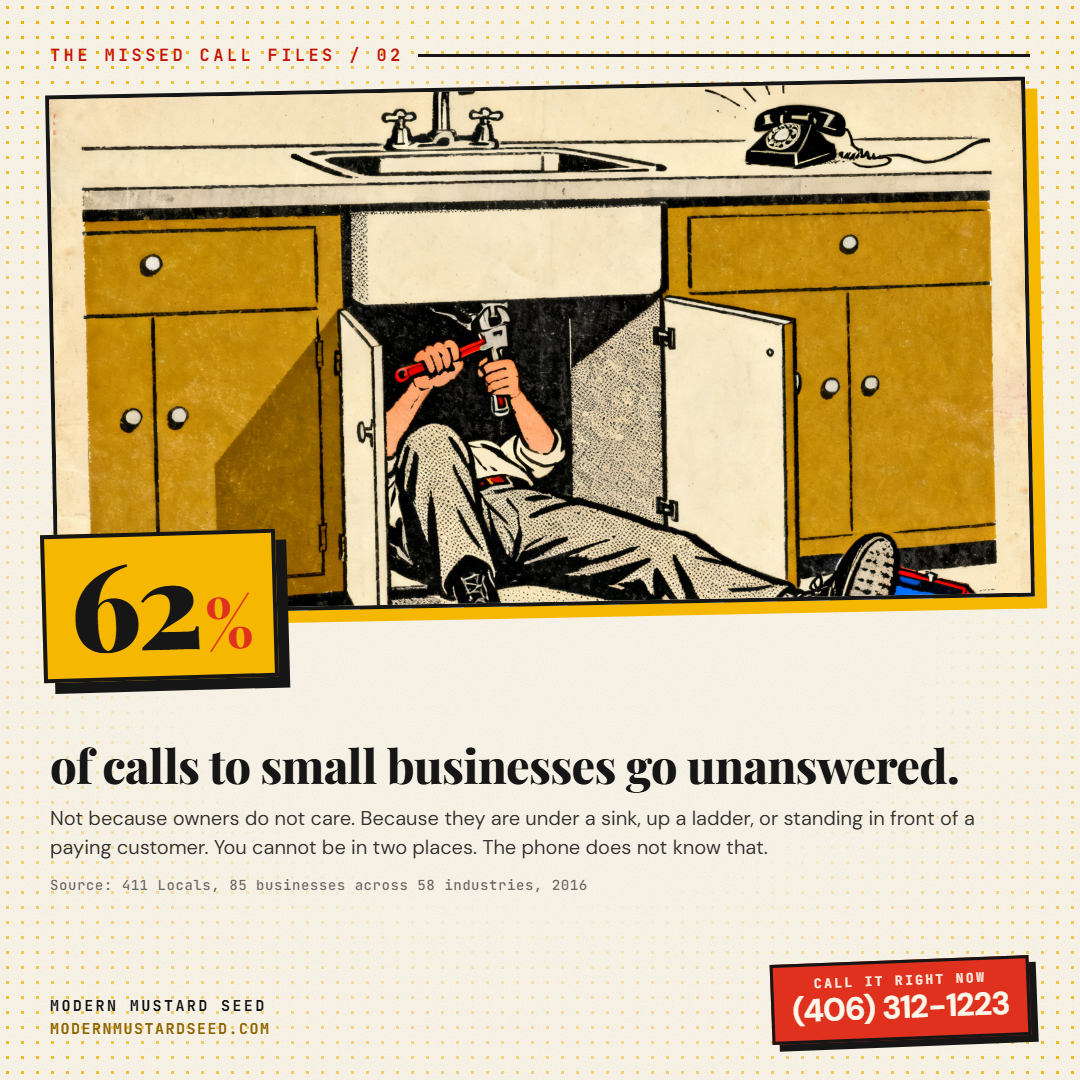
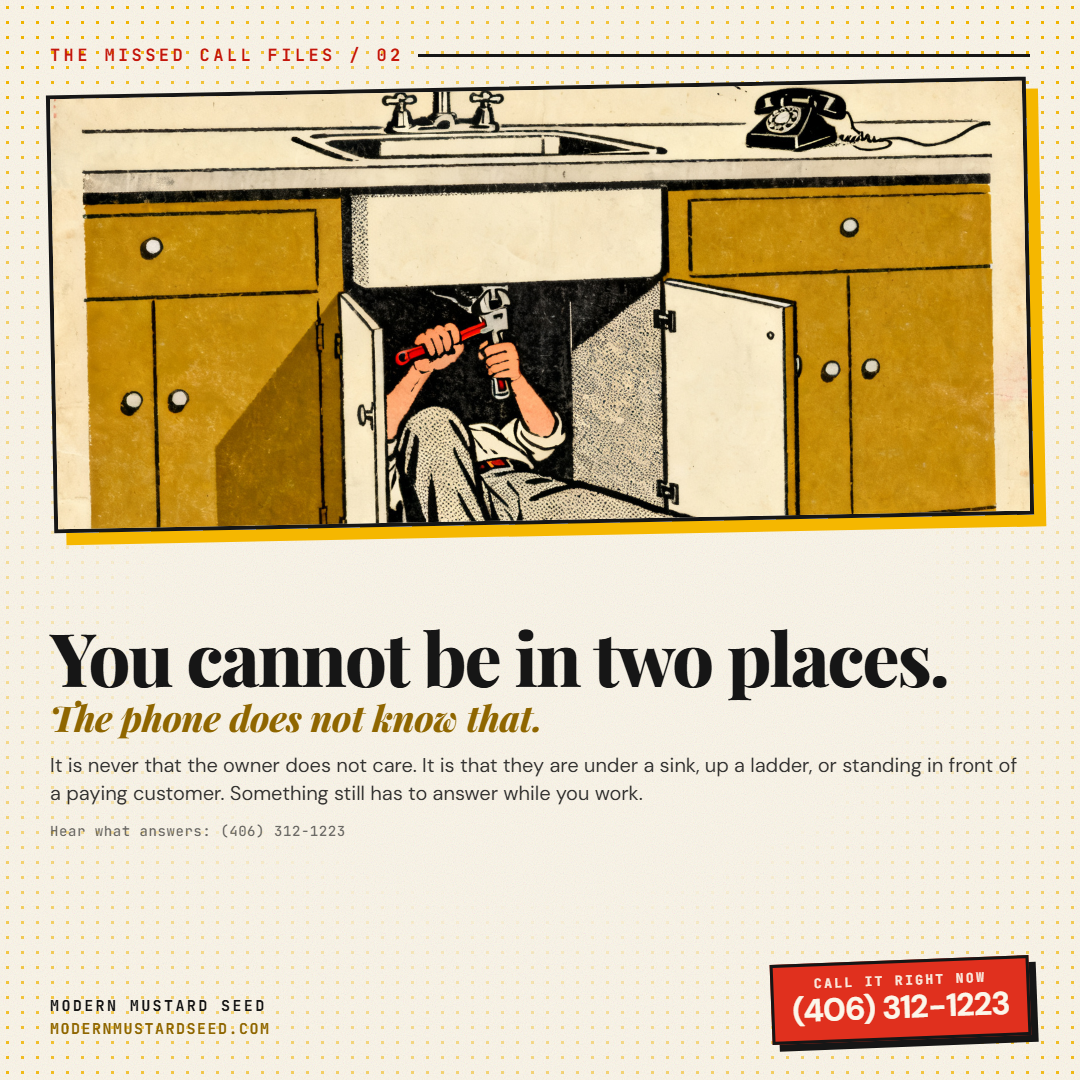
Show the cards instead of describing them, and make the two that were unpostable
Sarah, looking at the new Organic Social tab: "there are no graphics, there is
only a prompt." She was right about the tab and wrong about the library. Six
finished cards existed the whole time in public/social/missed-calls, and my tab
named their filenames in a sentence, which is how a library of finished artwork
ends up reading like a to-do list. Both cuts now render on screen with the
download that actually saves the file.

The two cards I had marked DO NOT POST are fixed rather than left broken. The
type on these is composited by social-drafts/missed-calls/render.mjs in real
brand fonts, so nothing was left to an image model's spelling, and re-rendering
an untouched card reproduced it byte for byte (1,422,844) before I changed
anything.

- 03-after-hours stops being a 52% stat card and becomes a call card carrying
  the argument: "People do not hate robots. People hate beeps." Same art plate.
- 02-unanswered drops the 62% figure that data/proof-stats.ts refuses and keeps
  the harder line: "You cannot be in two places. The phone does not know that."

07-you-own-it is new, and it is the one thing here that needed an actual image.
The stewardship angle had no card behind it, so the art plate came from Codex
image_gen with the same style block the original six used, and render.mjs
composited the type. fal-run.mjs could not do it: it reads a key from a
C:/Users/moder path that does not exist on this machine.
[…]

diff --git a/components/admin/SocialPosts.tsx b/components/admin/SocialPosts.tsx
@@ -35,7 +35,10 @@ type Post = {
   angle: string;
   /** What this post is for, in one line, so a tired Sarah picks the right one. */
   use: string;
-  creative: string;
+  /** The card to post with it: <set>/<file>, resolved to a real PNG below. */
+  card: string;
+  /** The moving cut, when there is one worth using instead. */
+  video: string;
   fb: string;
   ig: string;
   x: string;
@@ -46,7 +49,8 @@ const POSTS: Post[] = [
     id: 'dare',
     angle: 'The dare',
     use: 'The default post. Works cold, works warm, works on every network, and the demo does the selling.',
-    creative: 'GRAPHIC: /social/missed-calls/05-break-it.png (feed) and 05-break-it-square.png (X). VIDEO if you would rather: call-me-4x5.mp4 on FB and IG, call-me-9x16.mp4 for Reels and Stories, call-me-16x9.mp4 on X.',
+    card: 'missed-calls/05-break-it',
+    video: 'call-me-4x5.mp4 on FB and IG, call-me-9x16.mp4 for Reels and Stories, call-me-16x9.mp4 on X.',
     fb: `I built an AI receptionist and I am not going to describe him to you.
 
 His number is ${PHONE}. Call it right now. He picks up on the first ring, he says he is an AI in his first sentence, and then he answers whatever you throw at him.
@@ -75,7 +79,8 @@ Try to break him. That is the demo.`,
     id: 'beep',
     angle: 'The beep',
     use: 'The objection killer. Use it the moment somebody says people hate talking to robots.',
-    creative: 'NO GRAPHIC YET. 03-after-hours.png is retired: its artwork still reads the 52% figure that was pulled. Post this one text-only, or re-render that card with the beeps headline from social-drafts/missed-calls.',
+    card: 'missed-calls/03-after-hours',
+    video: 'after-hours-4x5.mp4, if you would rather move.',
     fb: `Every time I bring up AI answering the phone, somebody tells me people hate talking to robots.
 
 I get it. I hated the idea too.
@@ -106,7 +111,8 @@ People do not hate robots. People hate beeps.`,
     id: 'ninepm',
     angle: 'The nine at night caller',
     use: 'The arithmetic post. Best for trades and anyone who works a route or a job site.',
-    creative: 'GRAPHIC: /social/missed-calls/01-competitor.png (feed) and -square (X). VIDEO: after-hours-4x5.mp4. Avoid 02-unanswered, it is retired for carrying an unsourced 62% figure.',
+    card: 'missed-calls/01-competitor',
+    video: 'after-hours-4x5.mp4. 02-unanswered also fits this angle.',
     fb: `The call you lost last night did not go to voicemail and stay there.
 
 It rang four times, hit your recording, and that person hung up and called the next name on the list. They did not leave a message. They are not going to call back in the morning. You will never know it happened.
@@ -137,7 +143,8 @@ That is what makes it expensive. It is invisible.`,
     id: 'talking-website',
     angle: 'A website that answers its own phone',
     use: 'The flagship offer. Use when the audience is further along than "what is a voice agent".',
-    creative: 'GRAPHIC: /social/talking-website/01-talks-back.png (feed) and -square (X). VIDEO: the Talking Website cut, or a screen recording of the site with the gold call button.',
+    card: 'talking-website/01-talks-back',
+    video: 'The Talking Website cut, or a screen recording of the site with the gold call button.',
     fb: `Your website and your phone do not know each other.
 
 The site says you are open until six. The voicemail says something you recorded in 2019. A customer reads one, hears the other, and decides you are disorganised before anybody has spoken to them.
@@ -166,7 +173,8 @@ Build them as one thing.`,
     id: 'roof',
     angle: 'While you are on a roof',
     use: 'Trades specific. Roofing, HVAC, plumbing, landscaping. The one that gets shared in contractor groups.',
-    creative: 'GRAPHIC: /social/talking-website-plumbers/ for the trade cut, or /social/missed-calls/06-what-it-does.png. VIDEO: call-me-9x16.mp4 as a Reel.',
+    card: 'missed-calls/06-what-it-does',
+    video: 'call-me-9x16.mp4 as a Reel. The talking-website-plumbers set is the trade specific cut.',
     fb: `You cannot answer the phone from up a ladder. That is not a discipline problem, it is physics.
 
 So the phone rings while your hands are full, and by the time you are back in the truck the person who called has already booked somebody else.
@@ -191,7 +199,8 @@ Mine answers it, books the job, writes down the address, and texts me the ones t
     id: 'own-it',
     angle: 'You own it',
     use: 'The stewardship post. Slower, warmer, for the audience that has been burned by an agency.',
-    creative: 'GRAPHIC: /social/missed-calls/04-call-it.png (feed) and -square (X), or a photo of the Flathead. Download any of these from /admin/social-cards.',
+    card: 'missed-calls/07-you-own-it',
+    video: 'None. This one is better as a still.',
     fb: `Most people who build you something want you to need them forever.
 
 That is the business model. You do not get the logins, you do not get the code, and every small change costs you a phone call and two weeks of waiting.
@@ -304,9 +313,44 @@ export default function SocialPosts() {
 
       {POSTS.filter((p) => p.id === open).map((p) => (
         <section key={p.id} className="space-y-5">
+          {/*
+            SHOW THE GRAPHIC, DO NOT DESCRIBE IT.
+
+            This block used to be a sentence naming a filename, which is how a
+            library of finished artwork ends up looking like a to-do list.
+            Sarah's words on seeing it: "there are no graphics, there is only a
+            prompt." The cards existed the whole time. Now they are on screen,
+            both cuts, with the download that actually saves the file.
+          */}
           <div className="bg-[#FBF6EA] border-2 border-[#161616] shadow-[4px_4px_0_0_#161616] p-5">
-            <span className="text-[10px] uppercase tracking-[0.3em] text-[#E0301E] font-mono font-bold">Creative</span>
-            <p className="text-sm text-[#161616]/85 font-sans mt-2">{p.creative}</p>
+            <span className="text-[10px] uppercase tracking-[0.3em] text-[#E0301E] font-mono font-bold">
+              Post it with this
+            </span>
+            <div className="mt-4 grid gap-4 sm:grid-cols-[1.1fr_1fr]">
+              {(['', '-square'] as const).map((suffix) => (
+                <figure key={suffix} className="flex flex-col gap-2">
+                  <a
+                    href={`/social/${p.card}${suffix}.png`}
+                    target="_blank"
+                    rel="noopener noreferrer"
+                    className="block border-2 border-[#161616] bg-white shadow-[4px_4px_0_0_#F5B700] transition-all hover:-translate-y-0.5 hover:shadow-[2px_2px_0_0_#F5B700]"
+                  >
+                    {/* eslint-disable-next-line @next/next/no-img-element */}
+                    <img src={`/social/${p.card}${suffix}.png`} alt="" className="block h-auto w-full" loading="lazy" />
+                  </a>
+                  <a
+                    href={`/social/${p.card}${suffix}.png`}
+                    download
+                    className="text-center text-[11px] uppercase tracking-[0.14em] font-sans font-bold px-3 py-2 border-2 border-[#161616] bg-white shadow-[2px_2px_0_0_#161616] hover:-translate-y-0.5 transition-transform"
+                  >
+                    {suffix ? 'Download square (X)' : 'Download feed (FB + IG)'}
+                  </a>
+                </figure>
+              ))}
+            </div>
+            <p className="text-[13px] text-[#161616]/70 font-sans mt-4 leading-relaxed">
+              <b>Video instead:</b> {p.video}
+            </p>
           </div>
           <Copyable label="Facebook" text={p.fb} />
           <Copyable label="Instagram (no links, phone is the CTA)" text={p.ig} />

diff --git a/data/social-cards.ts b/data/social-cards.ts
@@ -78,19 +78,15 @@ export const SOCIAL_SETS: SocialSet[] = [
       },
       {
         file: '02-unanswered',
-        headline: '62% of calls to small businesses go unanswered.',
+        headline: 'You cannot be in two places. The phone does not know that.',
         use: 'The empathy beat. Middle of the Post 2 carousel.',
-        alt: 'A tradesperson working under a kitchen sink. Headline: 62 percent of calls to small businesses go unanswered.',
-        retired:
-          'The 62% figure is on the REFUSED list in data/proof-stats.ts: it circulates widely and has no traceable primary source. Our whole pitch is "here is the arithmetic with the assumptions showing", and one invented number discredits the sourced ones beside it. Re-render from social-drafts/missed-calls with a figure from the proof bank.',
+        alt: 'A tradesperson working under a kitchen sink. Headline: you cannot be in two places, the phone does not know that.',
       },
       {
         file: '03-after-hours',
         headline: 'People do not hate robots. People hate beeps.',
         use: 'The objection killer. Post 3.',
         alt: 'A lit shop counter at night. Headline: people do not hate robots, people hate beeps.',
-        retired:
-          'The ARTWORK still reads "52% say an AI after hours is better service", which Sarah pulled everywhere on 2026-08-18. The written copy above was rewritten to the beeps line, so the caption and the image now disagree, which is worse than either. Re-render from social-drafts/missed-calls with the beeps headline and clear this field.',
       },
       {
         file: '04-call-it',
@@ -109,6 +105,12 @@ export const SOCIAL_SETS: SocialSet[] = [
         headline: 'It answers. It thinks. It books.',
         use: 'The explainer. Post 4, for people already asking what it does.',
         alt: 'Hands patching a cable into a vintage switchboard. Headline: It answers. It thinks. It books.',
+      },
+      {
+        file: '07-you-own-it',
+        headline: 'You own it. Domain, accounts, numbers, all of it.',
+        use: 'The stewardship card. Post it to the audience that has been burned by an agency, and any time somebody asks what happens if they leave.',
+        alt: 'One hand passing a ring of keys to another across a shop counter. Headline: you own it, domain, accounts, numbers, all of it.',
       },
     ],
     posts: [
